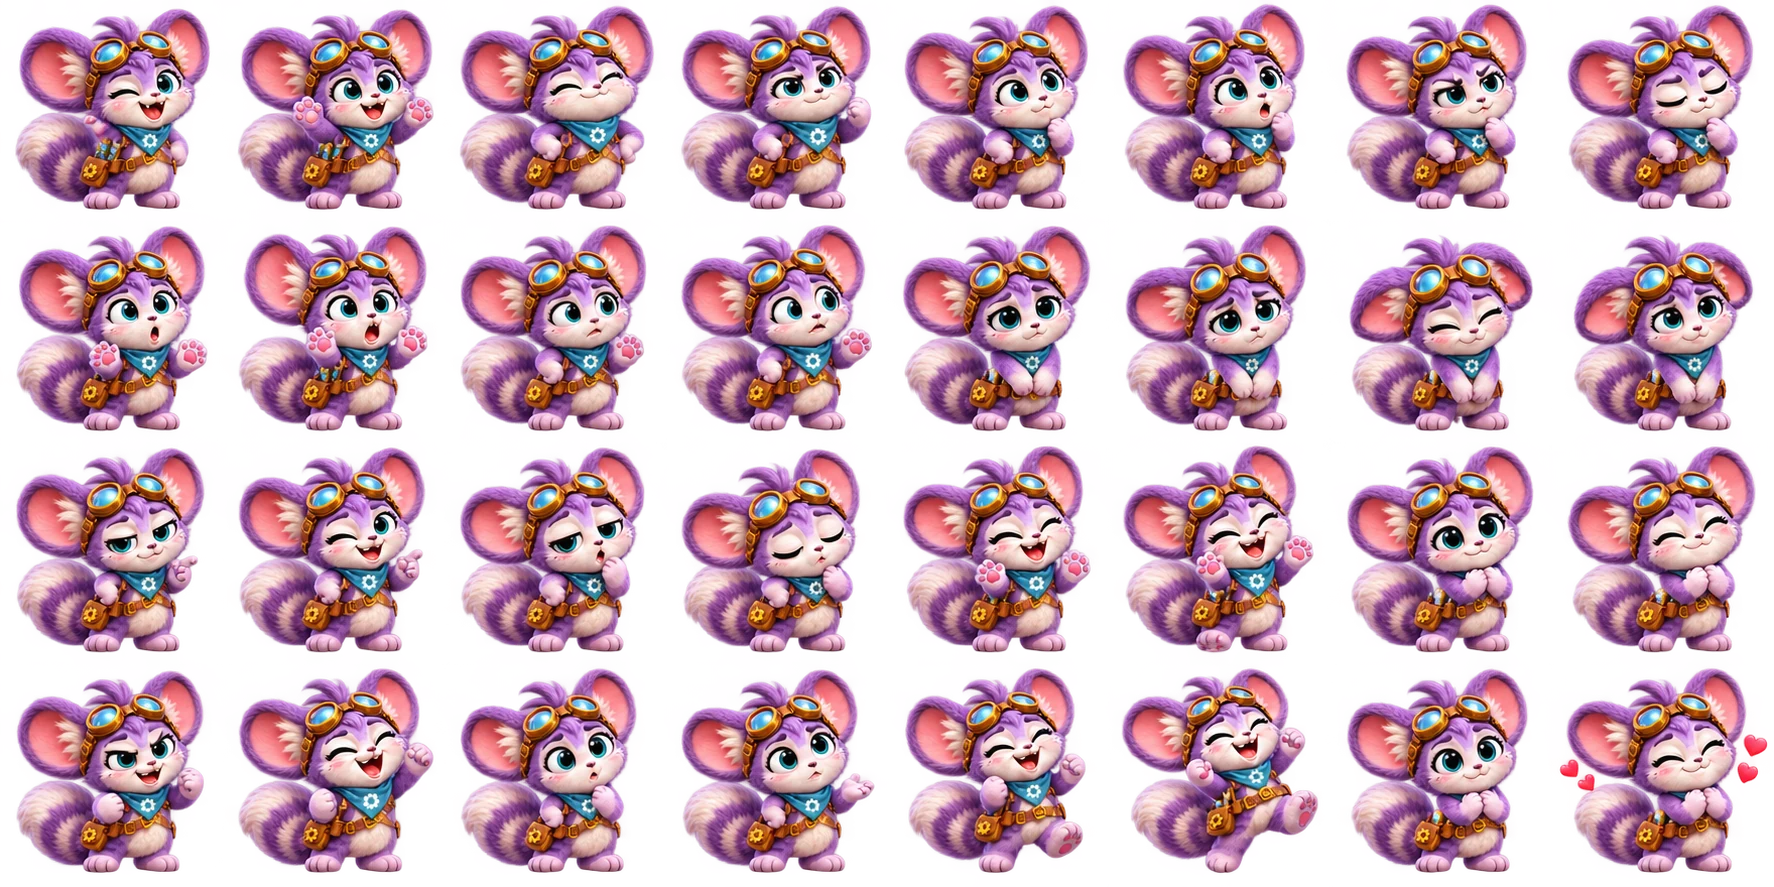
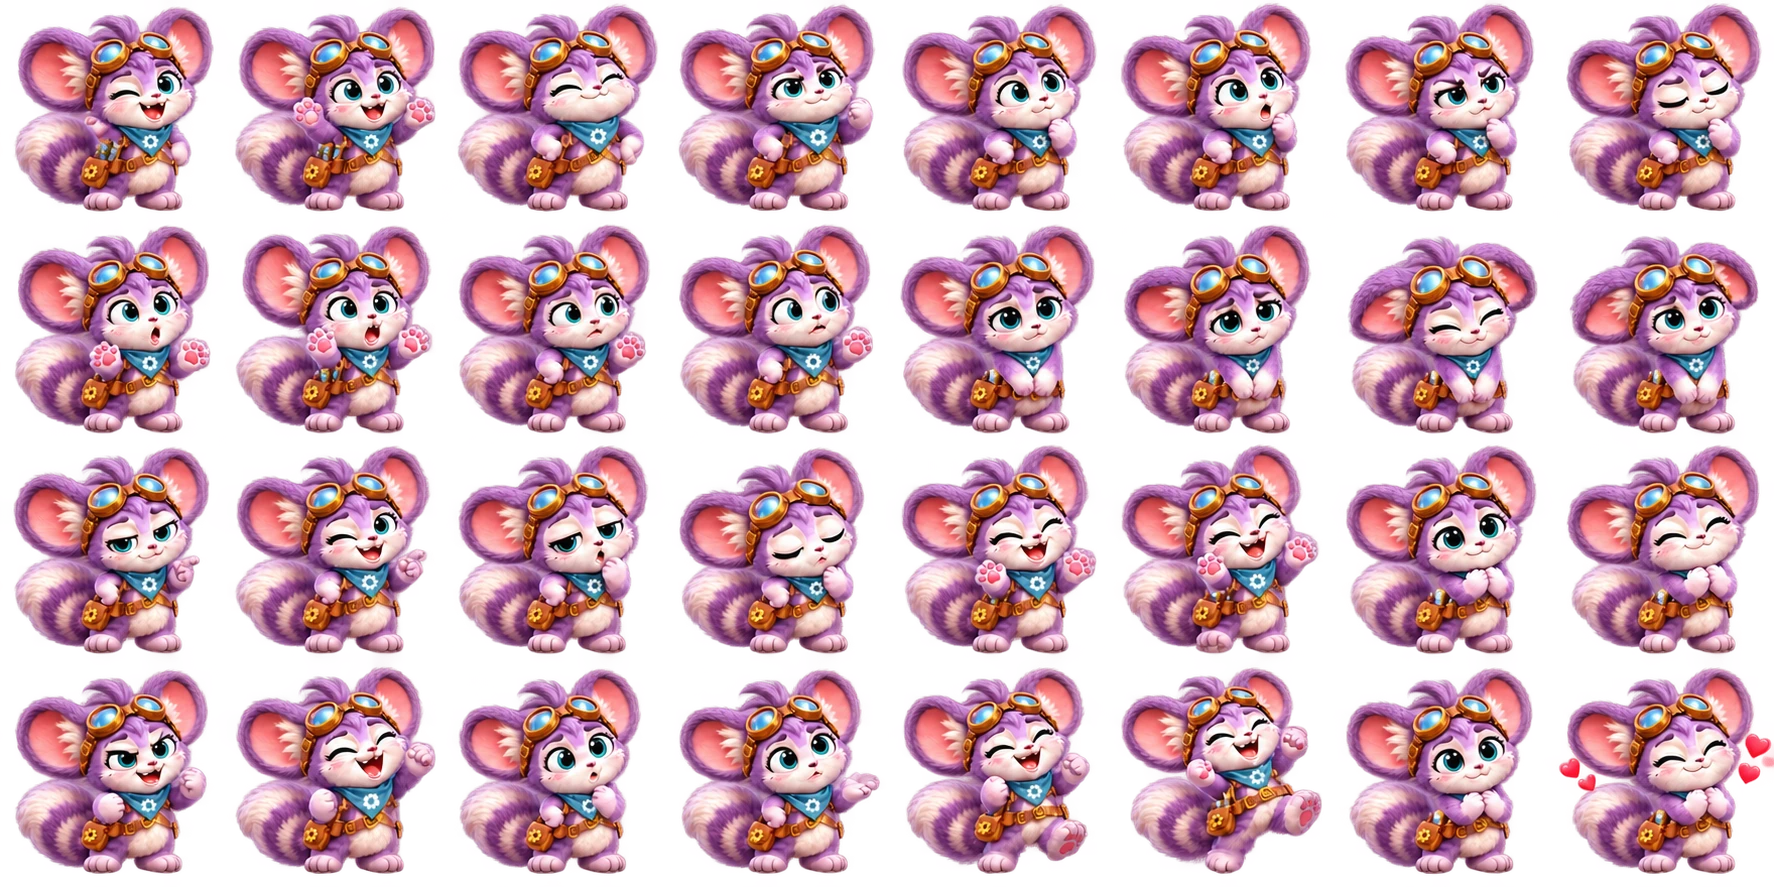
fix(mascots): remove image backgrounds and white sprite mattes

Changed region(s): [[0.0, 0.0, 1.0, 1.0]]

diff --git a/shared/toolya/platform.css b/shared/toolya/platform.css
@@ -4,7 +4,7 @@
 /* Frame atlases contain newly drawn eyes, ears, paws and tail positions. Original PNGs are fallback-only. */
 .ty-sprite-wrap{display:inline-block;position:relative;flex:0 0 84px;width:84px;height:84px;vertical-align:middle;border-radius:14px;isolation:isolate}
 .ty-sprite-wrap>img{display:block;width:100%;height:100%;object-fit:contain;max-width:none;animation:none!important;transform:none!important}
-.ty-frame{position:absolute;inset:0;pointer-events:none;background-color:#fff;background-size:800% 400%;background-repeat:no-repeat;border-radius:14px}
+.ty-frame{position:absolute;inset:0;pointer-events:none;background-color:transparent;background-size:800% 400%;background-repeat:no-repeat;border-radius:14px}
 .ty-frame[hidden]{display:none}.ty-sprite-wrap:focus-within{outline:3px solid currentColor;outline-offset:3px}
 .ty-animated{animation:ty-frame-pair 1.8s steps(1,end) 3}
 @keyframes ty-frame-pair{0%,79%,100%{background-position:var(--ty-a) var(--ty-y)}80%,99%{background-position:var(--ty-b) var(--ty-y)}}

diff --git a/assets/toolya-home.css b/assets/toolya-home.css
@@ -112,3 +112,6 @@ body.b3-home .b3-hub-hero{position:relative;isolation:isolate}
 body.b3-home .b3-hub-hero::before{content:'';position:absolute;inset:0;z-index:-1;pointer-events:none;background:url('./toolya/home/hero-atmosphere.webp') center bottom/100% 100% no-repeat;opacity:.7;animation:ty-atmosphere 3s ease-in-out 2}
 @keyframes ty-atmosphere{0%,100%{opacity:.7}50%{opacity:1}}
 @media(max-width:680px){body.b3-home .b3-hub-hero::before{background-size:auto 45%;opacity:.45}}
+
+/* True alpha assets need no white matte or blend-mode workaround. */
+.ty-hero-character[data-art=outfit]{mix-blend-mode:normal}

diff --git a/docs/TOOLYA-HOME-REDESIGN.md b/docs/TOOLYA-HOME-REDESIGN.md
@@ -11,3 +11,7 @@ Auf dem Smartphone stehen Duo, Überschrift, Favoriten und Toolkarten untereinan
 Geprüfter Codecommit: `2d07ebd9b2e8ac3804394cee44f7eb1eb5dbf48b`.68 Modulprüfungen und isolierte Chromium-Prüfungen bestanden; keine Laufzeitfehler oder produktiven Schreibversuche. Plattform/Nachlass: https://github.com/duhrrom11/toolya/actions/runs/43659941158 . Amazon: https://github.com/duhrrom11/toolya/actions/runs/43659941228 . Desktop1440px und Mobil320px anhand echter CI-Screenshots geprüft (Artefakt14139696956). Original-PNGs unverändert.
 
 Die direkte Cloud-Browser-Vorschau bleibt durch einen lokalen Verbindungsfehler blockiert. Deshalb bleibt die interaktive Übergabe in `design-qa.md` gesperrt; die CI-Prüfung und Screenshot-Sichtung ersetzen keine funktionierende lokale Vorschau. Keine Veröffentlichung, kein Merge, keine Produktivdatenänderung und keine Änderung am parallelen Wishlist-Branch.
+
+## Transparente Begleiterbilder
+
+Drei alte Atlanten (beide Emotionssammlungen und Outfits) freigestellt. Das Raster8×4 und1774×887px mit32 Posen pro Bild bleibt erhalten. Echte Alpha-Transparenz geprüft. Original-PNGs und neue Headerbilder waren bereits transparent und bleiben unverändert. Die zusätzliche weiße CSS-Fläche hinter den Sprite-Bildern sowie der Blend-Modus-Workaround für Outfits wurden entfernt. Alle68 Modulprüfungen bestanden; ein gezielter Browsercheck prüft den transparenten Frame-Hintergrund. Freistellungsauftrag: ausschließlich Hintergründe entfernen, Charaktere, Weißfell, Kleidung, Posen und Zellreihenfolge erhalten. Built-in-Bildbearbeitung verwendet. Veröffentlichung steht aus.
